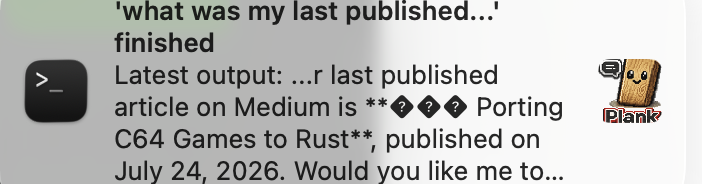
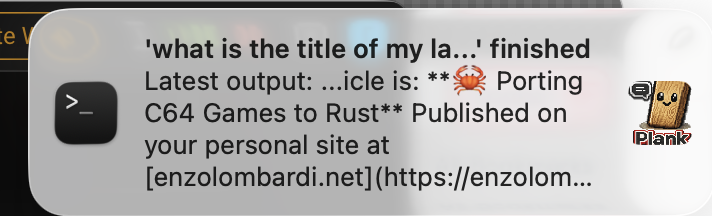
feat(notify): /renotify command, macOS 13+ sticky caveat; DUMMY key fallback
- notify: remember the last delivered banner and add a /renotify command to
  re-show it; document why _showsButtons no longer sticks on Ventura+ and
  the Alerts-style workaround
- provider: a missing API key falls back to "DUMMY" instead of erroring, so
  key-less OpenAI-compatible endpoints (local ollama serve) work out of the box
- assets: refresh the notification screenshot (crab emoji rendering intact)

Claude-Session: https://claude.ai/code/session_01SJ2A7ep7Xdr52t6U5sAA8U

diff --git a/src/notify.rs b/src/notify.rs
@@ -205,6 +205,30 @@ pub fn notify_full(summary: &str, subtitle: Option<&str>, body: &str) {
 /// the private `_showsButtons` key, which forces the persistent *alert* style
 /// regardless of the borrowed app's setting. The actions themselves do nothing;
 /// they exist only to trigger that style.
+///
+/// # Platform caveat (macOS 13+)
+///
+/// Apple deprecated `NSUserNotificationCenter` and stopped honoring its
+/// private keys (including `_showsButtons`) on macOS 13 (Ventura) and later.
+/// On those versions the override is ignored and the banner renders in
+/// whatever style the *borrowed* app (the host terminal — see
+/// [`host_terminal_bundle_id`]) is configured for in System Settings, which
+/// ships as the auto-fading **Banner** style by default. The sticky banner
+/// therefore still auto-fades after ~5s on current macOS despite the actions
+/// being attached.
+///
+/// The only supported fix is to migrate to `UNUserNotificationCenter` (notify-rust's
+/// `preview-macos-un` feature / the `mac-usernotifications` crate), but that API
+/// keys everything off `NSBundle::mainBundle().bundleIdentifier()` and refuses to
+/// deliver (`check_bundle` returns `Err`) when the binary is **not** a bundled,
+/// code-signed `.app`. Plank ships as a bare Homebrew binary with no bundle, so
+/// the UN path silently drops every notification — strictly worse than the
+/// current auto-fade. Adopting it would require redistributing plank as a signed
+/// `.app` bundle (a packaging change, not a `notify.rs` change).
+///
+/// **User-side workaround**: in System Settings → Notifications → [Terminal /
+/// iTerm / Warp / …] set the alert style from "Banners" to **"Alerts"**. Alerts
+/// persist until dismissed, restoring sticky behavior without a code change.
 pub fn notify_sticky(summary: &str, subtitle: Option<&str>, body: &str) {
     deliver(summary, subtitle, body, true);
 }
@@ -213,6 +237,16 @@ fn deliver(summary: &str, subtitle: Option<&str>, body: &str, sticky: bool) {
     if !should_deliver() {
         return;
     }
+    // Remember the last delivered notification so `/renotify` can re-show it
+    // (e.g. to screenshot the banner). Recorded only when we actually deliver,
+    // so a suppressed (disabled / unfocused) call does not clobber a prior one.
+    record_last(summary, subtitle, body);
+    deliver_raw(summary, subtitle, body, sticky);
+}
+
+/// Platform delivery with no mode/focus gating. Used by [`deliver`] (after the
+/// gate + recording) and by [`renotify`] (an explicit user request, always on).
+fn deliver_raw(summary: &str, subtitle: Option<&str>, body: &str, sticky: bool) {
     #[cfg(target_os = "macos")]
     {
         // Detach: the ObjC delivery is quick but must never stall a turn, and a
@@ -244,6 +278,48 @@ fn deliver(summary: &str, subtitle: Option<&str>, body: &str, sticky: bool) {
     {
         let _ = (summary, subtitle, body, sticky);
     }
+}
+
+/// The last notification plank actually delivered, remembered so [`renotify`]
+/// can re-show it on demand (used by the non-advertised `/renotify` command to
+/// get a fresh banner on screen for screenshotting).
+#[derive(Clone)]
+struct LastNotify {
+    summary: String,
+    subtitle: Option<String>,
+    body: String,
+}
+
+static LAST: std::sync::Mutex<Option<LastNotify>> = std::sync::Mutex::new(None);
+
+fn record_last(summary: &str, subtitle: Option<&str>, body: &str) {
+    *LAST.lock().unwrap() = Some(LastNotify {
+        summary: summary.to_string(),
+        subtitle: subtitle.map(str::to_string),
+        body: body.to_string(),
+    });
+}
+
+/// Re-shows the last delivered notification as a sticky banner, for
+/// screenshotting. Returns `false` if no notification has fired yet in this
+/// session. Bypasses [`should_deliver`] — the user asked for it explicitly, so
+/// focus/mode gating does not apply. Always re-delivers as sticky so the
+/// banner stays on screen long enough to capture.
+///
+/// Not advertised in `/help`; invoked by the hidden `/renotify` slash command.
+#[must_use]
+pub fn renotify() -> bool {
+    // Recover from a poisoned mutex (only possible after a prior panic in a
+    // test that held the lock) rather than propagating the panic into a turn.
+    let guard = LAST
+        .lock()
+        .unwrap_or_else(std::sync::PoisonError::into_inner);
+    let Some(last) = guard.clone() else {
+        return false;
+    };
+    drop(guard);
+    deliver_raw(&last.summary, last.subtitle.as_deref(), &last.body, true);
+    true
 }
 
 /// Condenses a user prompt into a single-line notification headline: newlines
@@ -394,6 +470,46 @@ mod tests {
         let body = latest_output_body(&long, false);
         assert!(body.starts_with("Latest output: ..."));
         assert!(body.ends_with("THE END"));
+    }
+
+    #[test]
+    fn renotify_returns_false_with_no_prior_notification() {
+        // No notification has fired in a fresh test process, so there is nothing
+        // to re-show. (Serlializes against other tests that might set LAST.)
+        let _g = TEST_LOCK.lock().unwrap();
+        *LAST.lock().unwrap() = None;
+        assert!(!renotify());
+    }
+
+    #[test]
+    fn renotify_replays_last_after_a_deliver() {
+        let _g = TEST_LOCK.lock().unwrap();
+        // Force the gate on so `deliver` records + delivers (platform delivery
+        // is a detached no-op off-macOS / best-effort on macOS; only the
+        // recording matters here).
+        set_mode(NotifyMode::Always);
+        notify_sticky("hello", Some("sub"), "world");
+        let last = LAST.lock().unwrap().clone();
+        assert_eq!(last.as_ref().unwrap().summary, "hello");
+        assert_eq!(last.as_ref().unwrap().subtitle.as_deref(), Some("sub"));
+        assert_eq!(last.as_ref().unwrap().body, "world");
+        // renotify reports success and preserves the recorded content.
+        assert!(renotify());
+        let last2 = LAST.lock().unwrap().clone();
+        assert_eq!(last2.as_ref().unwrap().summary, "hello");
+    }
+
+    #[test]
+    fn suppressed_deliver_does_not_clobber_last() {
+        let _g = TEST_LOCK.lock().unwrap();
+        set_mode(NotifyMode::Always);
+        notify_sticky("first", None, "body1");
+        // Now disable: a subsequent notify must not overwrite the recorded last.
+        set_mode(NotifyMode::Never);
+        notify_full("second", None, "body2");
+        let last = LAST.lock().unwrap().clone();
+        assert_eq!(last.as_ref().unwrap().summary, "first");
+        assert_eq!(last.as_ref().unwrap().body, "body1");
     }
 
     #[test]

diff --git a/src/remote/provider.rs b/src/remote/provider.rs
@@ -976,11 +976,13 @@ pub struct ProviderEngine {
 
 impl ProviderEngine {
     /// Constructs a provider engine. `base_url` defaults per provider when
-    /// empty; `api_key` must be resolved by the caller (env or flag).
+    /// empty; `api_key` must be resolved by the caller (env or flag). A
+    /// missing key falls back to `DUMMY` — key-less endpoints (a local
+    /// `ollama serve`, llama.cpp's server) accept any bearer token, and a real
+    /// provider rejects it with its own auth error.
     ///
     /// # Errors
-    /// Returns [`EngineError`] when the provider is not yet supported or the
-    /// API key is empty.
+    /// Returns [`EngineError`] when the provider is not yet supported.
     pub fn new(
         kind: ProviderKind,
         base_url: Option<String>,
@@ -989,12 +991,11 @@ impl ProviderEngine {
         ctx_size: i32,
         cache: bool,
     ) -> Result<Self, EngineError> {
-        if api_key.trim().is_empty() {
-            return Err(EngineError::new(format!(
-                "no API key: set ${} or pass --api-key",
-                kind.api_key_env()
-            )));
-        }
+        let api_key = if api_key.trim().is_empty() {
+            "DUMMY".to_string()
+        } else {
+            api_key
+        };
         let base_url = base_url
             .filter(|s| !s.is_empty())
             .unwrap_or_else(|| kind.default_base_url().to_string())
@@ -1441,30 +1442,16 @@ mod tests {
         assert_eq!(body["messages"][1]["role"], "user");
     }
 
+    // A missing key falls back to DUMMY so key-less endpoints (local ollama,
+    // llama.cpp server) work out of the box; real providers reject it with
+    // their own auth error.
     #[test]
-    fn missing_key_errors_both_providers() {
-        assert!(
-            ProviderEngine::new(
-                ProviderKind::OpenAi,
-                None,
-                String::new(),
-                "m".into(),
-                0,
-                true
-            )
-            .is_err()
-        );
-        assert!(
-            ProviderEngine::new(
-                ProviderKind::Anthropic,
-                None,
-                String::new(),
-                "m".into(),
-                0,
-                true
-            )
-            .is_err()
-        );
+    fn missing_key_falls_back_to_dummy() {
+        for kind in [ProviderKind::OpenAi, ProviderKind::Anthropic] {
+            let e = ProviderEngine::new(kind, None, String::new(), "m".into(), 0, true)
+                .expect("empty key must not error");
+            assert_eq!(e.api_key, "DUMMY");
+        }
         let e = ProviderEngine::new(
             ProviderKind::OpenAi,
             None,

diff --git a/src/ui.rs b/src/ui.rs
@@ -2149,6 +2149,15 @@ impl Agent<'_> {
                 None => println!("usage: /power <1..100>"),
             },
             "/notify" => println!("{}", Self::notify_command(arg)),
+            // Non-advertised: re-shows the last desktop notification so it can be
+            // screenshotted. Not in `/help` or `slash_command_known`.
+            "/renotify" => {
+                if crate::notify::renotify() {
+                    println!("re-showing last notification");
+                } else {
+                    println!("no notification to re-show yet");
+                }
+            }
             "/strip" => {
                 if arg.is_empty() {
                     println!("usage: /strip <sha-prefix>");
@@ -4620,6 +4629,15 @@ impl Agent<'_> {
                 None => log.push_plain("usage: /power <1..100>"),
             },
             "/notify" => log.push_plain(Self::notify_command(arg)),
+            // Non-advertised: re-shows the last desktop notification so it can be
+            // screenshotted. Not in `/help` or `slash_command_known`.
+            "/renotify" => {
+                if crate::notify::renotify() {
+                    log.push_plain("re-showing last notification");
+                } else {
+                    log.push_plain("no notification to re-show yet");
+                }
+            }
             "/strip" => {
                 if arg.is_empty() {
                     log.push_plain("usage: /strip <sha-prefix>");
@@ -4938,7 +4956,7 @@ fn busy_ui_loop(
             && bridge.is_pending()
         {
             if !ask_notified {
-                crate::notify::notify("plank", "Waiting for your input");
+                crate::notify::notify_sticky("plank", None, "Waiting for your input");
                 ask_notified = true;
             }
             run_ask_panel(